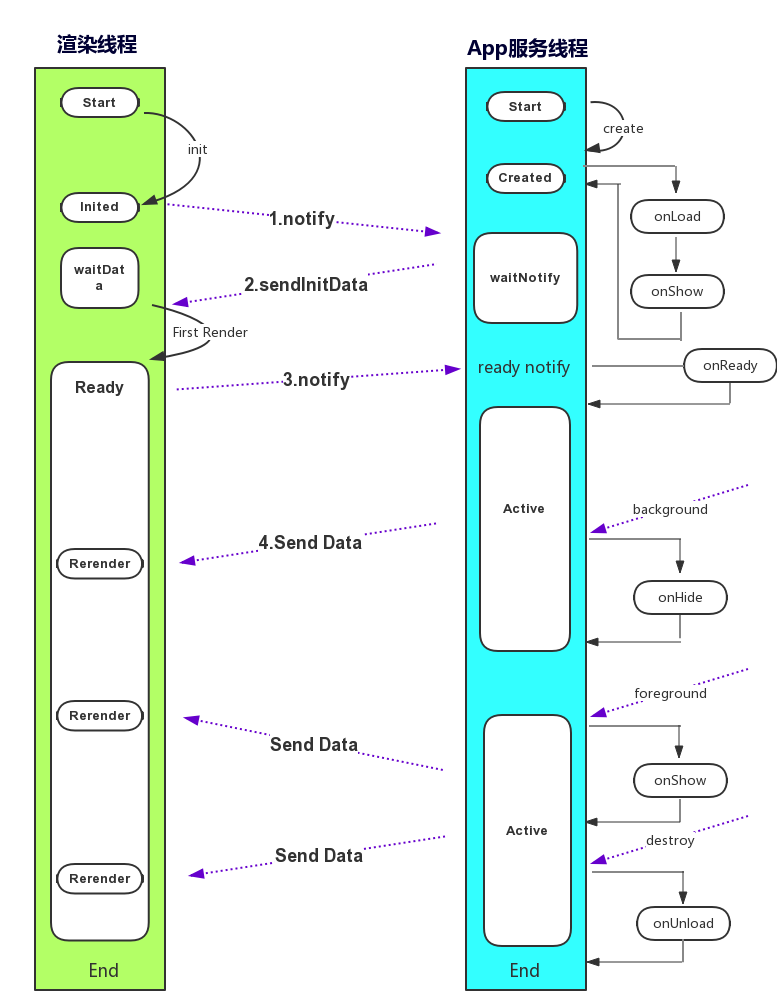
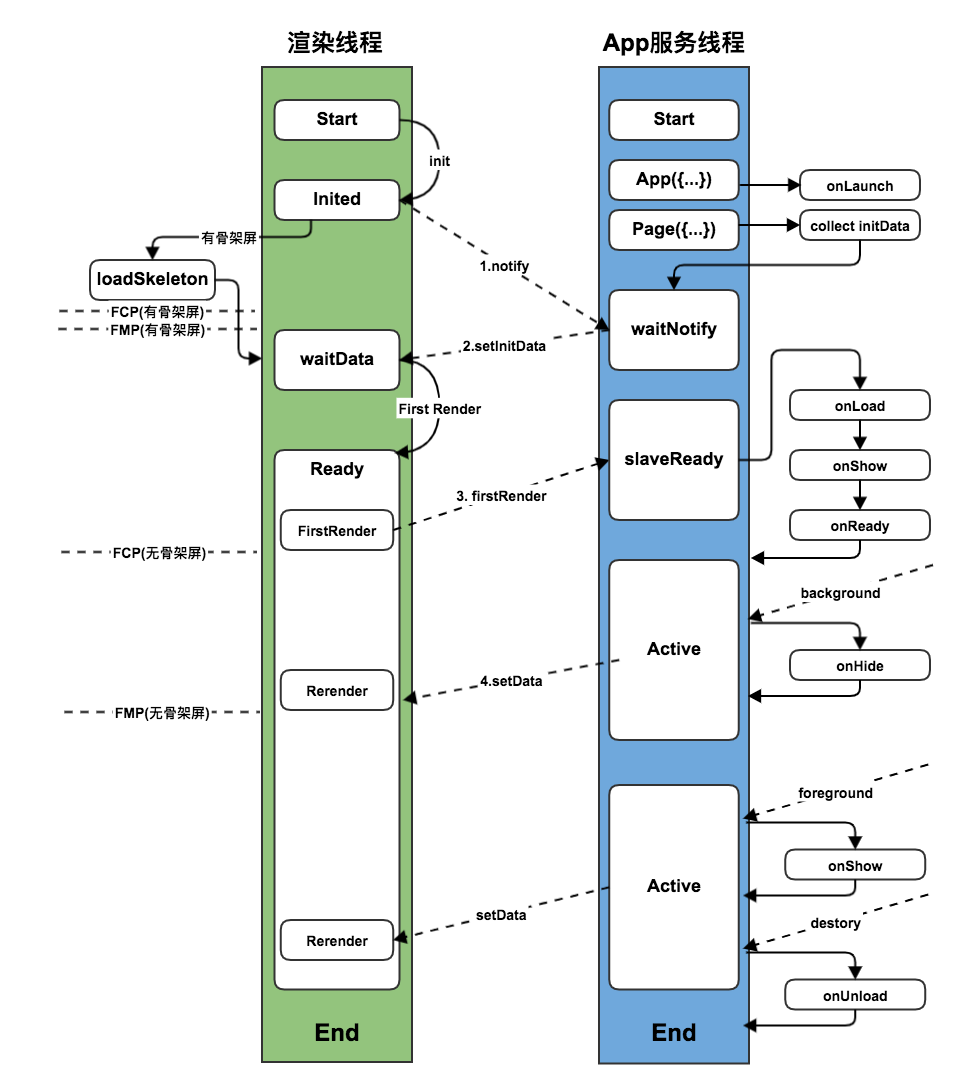
更新

diff --git a/themes/docs/source/js/docsinit.js b/themes/docs/source/js/docsinit.js
@@ -30,7 +30,8 @@
         '/docs/develop/devtools/uplog_tool/': '/docs/develop/devtools/uplog_tool_normal/',
         '/docs/introduction/single/': '/docs/introduction/rank_single/',
         '/docs/develop/function/single/': '/docs/introduction/rank_single/',
-        '/docs/develop/api/nacomponent/': '/docs/develop/api/show/nacomponent/'
+        '/docs/develop/api/nacomponent/': '/docs/develop/api/show/nacomponent/',
+        '/docs/develop/framework/app_service_life/': '/docs/develop/framework/process_life/'
     };
     urlMap[pathname] && location.replace(urlMap[pathname]);
 }(location.pathname);

diff --git a/source/_posts/develop/swan/swanchangelog.md b/source/_posts/develop/swan/swanchangelog.md
@@ -9,12 +9,14 @@ sidebar: swanchangelog
 
 |版本号|更新日期|更新内容|
 |----|----|----|
+|3.120.6|2019.11.18|**BugFix**<p>**·**修复切换视频src后起始播放时间不对问题;<p>**·**修复android video 结束前自动暂停的问题;<p>**·**修复相机 insert 未结束就调用 update 的问题。|
 |3.120.2|2019.11.11|**BugFix**<p>**·**修复安卓同层textarea auto-height的默认高度问题;<p>**·**修复ios视频播放时圆角不生效的问题。|
 
 ## 3.110 版本日志更新
 
 |版本号|更新日期|更新内容|
 |----|----|----|
+|3.110.20|2019.11.18|**BugFix**<p>**·**修复安卓同层textarea auto-height的默认高度问题;<p>**·**修复ios视频播放时圆角不生效的问题;<p>**·**修复 android video 结束前自动暂停的问题;<p>**·**修复切换视频src后起始播放时间不对问题;<p>**·**修复相机insert未结束就调用update的问题。|
 |3.110.15|2019.11.11|**BugFix**<p>**·**修复scroll-view或scroll-veiw父节点绑定catchtouchmove后scoll-veiw不能滚动的问题；<p>**·**修复安卓同层textarea auto-height的默认高度问题；<p>**·**修复ios视频播放时圆角不生效的问题。|
 |3.110.14|2019.10.31|**BugFix**<p>**·**修复 Android 同层 volume 为 0 但 muted 不为 true 情况时的样式同步问题;<p>**·**修复 ios 下 input 光标抖动问题;<p>**·**修复非首次加载小程序直接调起时，appShow path query 不是当前页面的问题;<p>**·**修复开发者代码异常不抛错的bug。|
 |3.110.9|2019.10.21|**Breaking Change**<p>**·**修复onPageNotFound方法中参数与文档不符的问题；<p>**·**修复navigateTo跳转query中带有https时缺少一个斜杠的问题；<p>**·**修复滑动页面触发longpress问题。|
@@ -25,6 +27,7 @@ sidebar: swanchangelog
 
 |版本号|更新日期|更新内容|
 |----|----|----|
+|3.105.25|2019.11.18|**BugFix**<p>**·**修复切换视频src后起始播放时间不对问题;<p>**·**修复android video 结束前自动暂停的问题;<p>**·**修复相机 insert 未结束就调用 update 的问题。|
 |3.105.22|2019.11.11|**BugFix**<p>修复ios视频播放时圆角不生效的问题。|
 |3.105.21|2019.10.31|**BugFix**<p>**·**修复 Android 同层 volume 为 0 但 muted 不为 true 情况时的样式同步问题;<p>**·**修复 ios 下 input 光标抖动问题;<p>**·**修复非首次加载小程序直接调起时，appShow path query 不是当前页面的问题;<p>**·**修复开发者代码异常不抛错的bug。|
 |3.105.19|2019.10.21|**Breaking Change**<p>**·**修复onPageNotFound方法中参数与文档不符的问题；<p>**·**修复navigateTo跳转query中带有https时缺少一个斜杠的问题；<p>**·**修复滑动页面触发longpress问题。|
@@ -36,7 +39,7 @@ sidebar: swanchangelog
 
 |版本号|更新日期|更新内容|
 |----|----|----|
-|3.100.18|2019.11.11|**BugFix**<p>修复ios视频播放时圆角不生效的问题。|
+|3.100.21|2019.11.18|**BugFix**<p>修复android video 结束前自动暂停的问题。|
 |3.100.17|2019.10.31|**BugFix**<p>**·**修复 Android 同层 volume 为 0 但 muted 不为 true 情况时的样式同步问题;<p>**·**修复 ios 下 input 光标抖动问题;<p>**·**修复非首次加载小程序直接调起时，appShow path query 不是当前页面的问题;<p>**·**修复开发者代码异常不抛错的bug。|
 |3.100.14|2019.10.21|**Breaking Change**<p>**·**修复onPageNotFound方法中参数与文档不符的问题；<p>**·**修复navigateTo跳转query中带有https时缺少一个斜杠的问题；<p>**·**修复滑动页面触发longpress问题。|
 |3.100.13|2019.10.12|**BugFix**<p>**·**修复picker-view设置indicator高度但蒙层不适配问题；<p>**·**修复安卓真机无法获取formId问题。|

diff --git a/source/_posts/develop/swan/version.md b/source/_posts/develop/swan/version.md
@@ -4,48 +4,46 @@ header: develop
 nav: swan
 sidebar: version
 ---
-**更新时间**：2019年11月18日
+**更新时间**：2019年11月19日
 
 > 最新基础库版本在对应的客户端版本发版前暂时无法使用，如遇此情况，您可使用更早的基础库版本，待客户端发版后使用最新基础库版本进行开发。
  
 |基础库版本号|客户端版本号|用户占比|设置为最低版本的用户覆盖率|
 |---|---|---|---|
-|3.120.6|11.16.0.0|10.94%|10.94%|
-|3.120.2|11.16.0.0|43.42%|54.36%|
-|3.110.20|11.15.0.0|5.03%|59.39%|
-|3.110.17|11.15.0.0|20.82%|80.21%|
-|3.110.15|11.15.0.0|0.01%|80.22%|
-|3.110.14|11.15.0.0|0.13%|80.34%|
-|3.110.11|11.15.0.0|0.17%|80.51%|
-|3.105.25|11.13.5.0|0.83%|81.34%|
-|3.105.22|11.13.5.0|3.35%|84.69%|
-|3.105.21|11.13.5.0|0.02%|84.70%|
-|3.105.9|11.13.5.0|0.04%|84.74%|
-|3.100.21|11.13.0.0|0.53%|85.27%|
-|3.100.18|11.13.0.0|3.43%|88.70%|
-|3.100.17|11.13.0.0|0.03%|88.73%|
-|3.90.28|11.12.0.0|3.13%|91.87%|
-|3.90.27|11.12.0.0|0.01%|91.88%|
-|3.90.7|11.12.0.0|0.03%|91.91%|
-|3.80.33|11.11.0.0|0.68%|92.59%|
-|3.80.8|11.11.0.0|0.02%|92.61%|
-|3.70.52|11.10.0.0|1.29%|93.90%|
-|3.60.39|11.9.0.0|1.37%|95.27%|
-|3.60.20|11.9.0.0|0.02%|95.29%|
-|3.60.16|11.9.0.0|0.01%|95.30%|
-|3.50.36|11.8.0.0|0.30%|95.60%|
-|3.40.39|11.7.0.0|0.58%|96.18%|
-|3.30.44|11.6.0.0|0.38%|96.56%|
-|3.20.46|11.5.0.0|0.25%|96.82%|
-|3.15.146|11.3.5.0|2.08%|98.89%|
-|3.10.47|11.3.0.0|0.18%|99.08%|
-|3.0.39|11.2.0.0|0.25%|99.32%|
-|2.15.35|11.1.5.0|0.04%|99.36%|
-|2.10.34|11.1.0.0|0.05%|99.41%|
-|2.5.30|11.0.5.0|0.15%|99.56%|
-|2.0.53|11.0.0.0|0.16%|99.73%|
-|2.0.14|null|0.01%|99.73%|
-|1.13.43|10.13.0.0|0.14%|99.87%|
-|1.12.43|10.12.0.0|0.09%|99.95%|
-|1.12.31|10.12.0.0|0.01%|99.96%|
-|1.11.31|10.11.0.0|0.04%|100.00%|
+|3.120.6|11.16.0.0|30.40%|30.40%|
+|3.120.2|11.16.0.0|25.53%|55.93%|
+|3.110.20|11.15.0.0|12.77%|68.70%|
+|3.110.17|11.15.0.0|12.97%|81.68%|
+|3.110.15|11.15.0.0|0.01%|81.68%|
+|3.110.14|11.15.0.0|0.07%|81.76%|
+|3.110.11|11.15.0.0|0.12%|81.87%|
+|3.105.25|11.13.5.0|2.18%|84.06%|
+|3.105.22|11.13.5.0|1.95%|86.01%|
+|3.105.21|11.13.5.0|0.01%|86.01%|
+|3.105.9|11.13.5.0|0.03%|86.04%|
+|3.100.21|11.13.0.0|1.76%|87.80%|
+|3.100.18|11.13.0.0|2.21%|90.00%|
+|3.100.17|11.13.0.0|0.02%|90.03%|
+|3.90.28|11.12.0.0|2.83%|92.86%|
+|3.90.27|11.12.0.0|0.01%|92.87%|
+|3.90.7|11.12.0.0|0.02%|92.89%|
+|3.80.33|11.11.0.0|0.58%|93.48%|
+|3.80.8|11.11.0.0|0.02%|93.50%|
+|3.70.52|11.10.0.0|1.12%|94.62%|
+|3.60.39|11.9.0.0|1.17%|95.79%|
+|3.60.16|11.9.0.0|0.01%|95.79%|
+|3.50.36|11.8.0.0|0.27%|96.06%|
+|3.40.39|11.7.0.0|0.49%|96.55%|
+|3.30.44|11.6.0.0|0.35%|96.91%|
+|3.20.46|11.5.0.0|0.22%|97.13%|
+|3.15.146|11.3.5.0|1.89%|99.02%|
+|3.10.47|11.3.0.0|0.16%|99.18%|
+|3.0.39|11.2.0.0|0.22%|99.41%|
+|2.15.35|11.1.5.0|0.04%|99.44%|
+|2.10.34|11.1.0.0|0.04%|99.48%|
+|2.5.30|11.0.5.0|0.13%|99.61%|
+|2.0.53|11.0.0.0|0.15%|99.76%|
+|1.13.43|10.13.0.0|0.12%|99.88%|
+|1.12.43|10.12.0.0|0.08%|99.96%|
+|1.12.31|10.12.0.0|0.01%|99.97%|
+|1.11.31|10.11.0.0|0.03%|100.00%|

diff --git a/source/_posts/develop/framework/process_life.md b/source/_posts/develop/framework/process_life.md
@@ -5,26 +5,20 @@ nav: tutorial
 sidebar: process_life
 ---
 
-#### 属性介绍：
 
-|属性|类型|描述|触发时机|
-|----|----|----|--------|
-|onLaunch|Function|SWAN 初始化的生命周期函数|当 SWAN App 初始化完成时，会触发 onLaunch（全局只触发一次）|
-|onShow|Function| SWAN App 展示时调用的生命周期函数|SWAN App 从后台进入前台，触发 onShow|
-|onHide|Function| SWAN App 隐藏时调用的生命周期函数|SWAN App 从前台进入后台，触发 onHide|
-|onLoad|Function| 监听页面加载的生命周期函数|SWAN App 页面加载完成，触发 onLoad|
-|onReady|Function| 监听页面初次渲染完成的生命周期函数|SWAN App 页面渲染完成，触发 onReady|
-|onUnload|Function| 监听页面卸载的生命周期函数|页面卸载，触发 onUnload|
-|onError|Function|错误监听函数|当 SWAN App 发生错误时，会触发|
+## 原理图：
 
-#### 原理图：
  ![图片](../../../img/framwork/framwork-01.png)
 
 
- 1、**notify**:当渲染线程初始化后，向APP服务线程派发消息，请求获取初始化渲染数据；
- 2、**sendInitData**:APP服务线程将初始化渲染数据派发给渲染线程；
- 3、**notify**:渲染线程渲染达到Ready状态后，派发消息通知APP服务线程；
- 4、**SendData**:APP服务线程触发onReady事件，向渲染线程传送数据；
+
+ 1. **notify**: 当渲染线程初始化后，向APP服务线程派发消息，请求获取初始化渲染数据；
+
+ 2. **sendInitData**: APP服务线程将初始化渲染数据派发给渲染线程；
+
+ 3. **firstRender**: 渲染线程渲染达到Ready状态后，派发消息通知APP服务线程；
+
+ 4. **SendData**: APP服务线程触发onReady事件，向渲染线程传送数据；
 
  **说明**：
  每次前台切后台会触发Page的onHide生命周期函数，后台切前台触发Page的onShow。

diff --git a/source/_posts/data/performance-point.md b/source/_posts/data/performance-point.md
@@ -1,5 +1,5 @@
 ---
-title: 打点统计方案
+title: 手工埋点统计
 header: data
 nav: book
 sidebar: performance-point

diff --git a/source/_posts/data/custom.md b/source/_posts/data/custom.md
@@ -1,5 +1,5 @@
 ---
-title: 自定统计
+title: 自定事件分析
 header: data
 nav: book
 sidebar: custom
